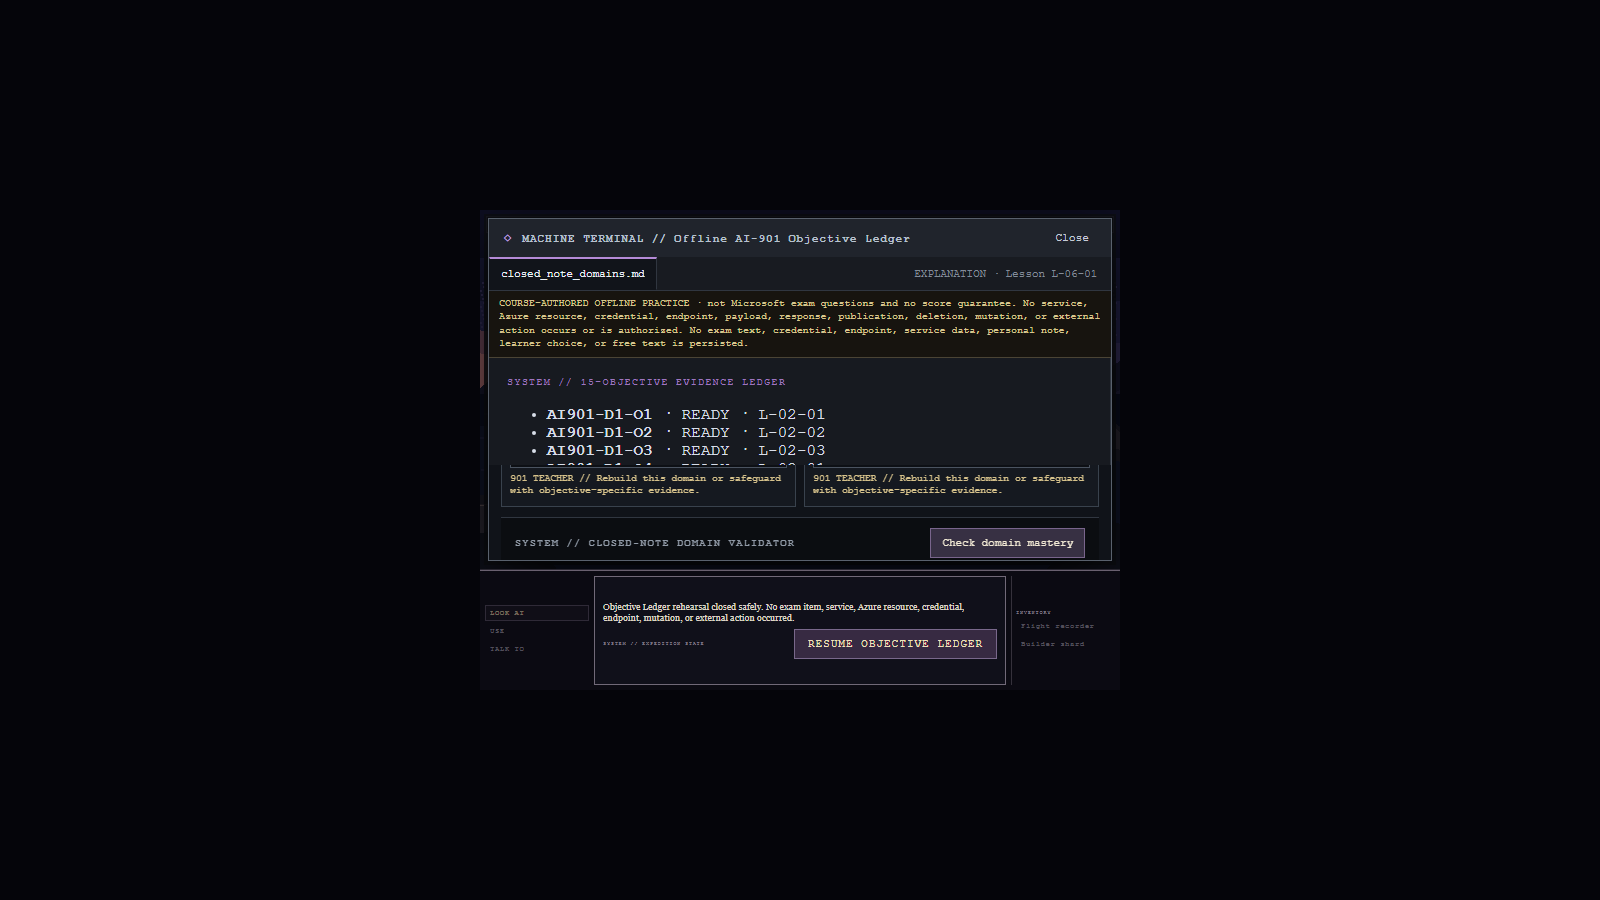
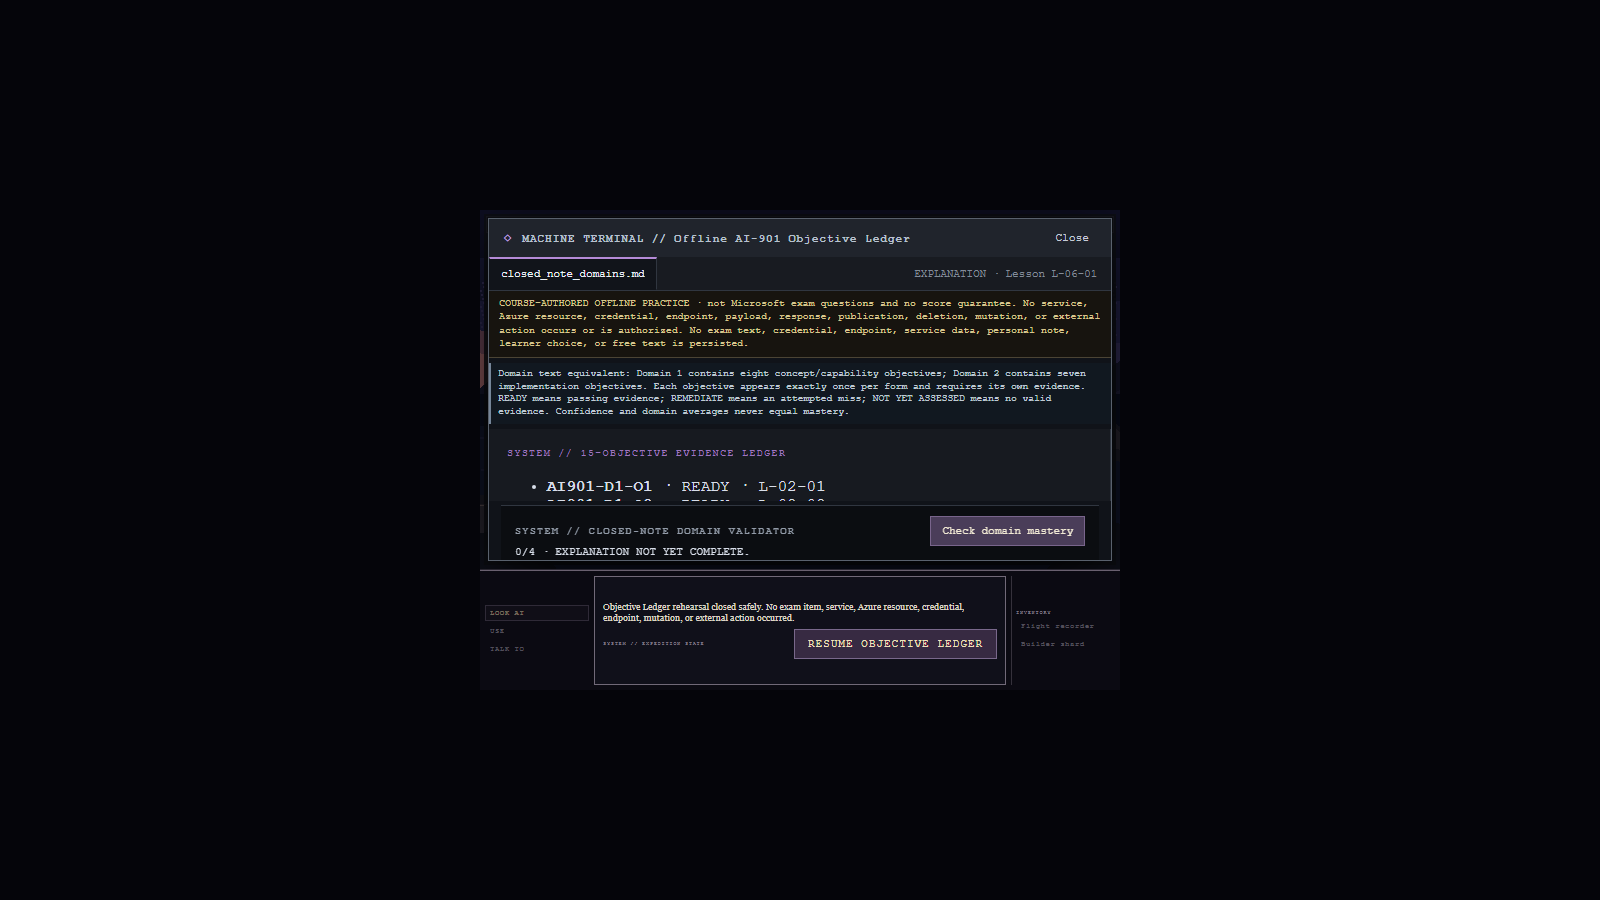
Round 23 step 6 Pixel Patrol Agent checkpoint

Changed region(s): [[0.3125, 0.4044, 0.6875, 0.6222]]

diff --git a/horizon-archive-game/src/styles.css b/horizon-archive-game/src/styles.css
@@ -567,6 +567,10 @@ h1 {
 .visual-pattern-workspace { grid-template-rows: auto auto minmax(0, 1fr); }
 .visual-pattern-explanation { grid-template-columns: repeat(4, minmax(0, 1fr)); }
 .canonical-game-frame[data-canonical-layout="narrow"] .visual-pattern-explanation { grid-template-columns: 1fr; }
+.objective-ledger-workspace { grid-template-rows: auto auto minmax(72px, 0.65fr) minmax(0, 1.35fr); overflow: auto; }
+.objective-ledger-panel { min-height: 0; overflow: auto; }
+.objective-ledger-explanation { grid-template-columns: repeat(4, minmax(0, 1fr)); }
+.canonical-game-frame[data-canonical-layout="narrow"] .objective-ledger-explanation { grid-template-columns: 1fr; }
 .bridge-retrieval { overflow: auto; }
 .bridge-retrieval fieldset { margin: 6px 0; padding: 6px; color: #aeb7c3; border: 1px solid #39424d; font-size: 0.6rem; }
 .bridge-retrieval label { display: block; margin: 4px 0; }

diff --git a/Pixel Patrol/WORK_LOG.md b/Pixel Patrol/WORK_LOG.md
@@ -1,5 +1,13 @@
 # Pixel Patrol Work Log
 
+## 2026-07-12 — Offline Objective Ledger final visual gate
+
+- **Completed:** audited complete Objective Ledger primary, transfer, closed-note, and mastered flow. Corrected one essential layout defect: the four-child ledger workspace inherited a two-row grid and hid the domain equivalent. Added explicit warning/domain/ledger/form rows, contained ledger scrolling, and canonical/narrow explanation columns. The 15-objective status/evidence density, concept-versus-implementation split, objective remediation, confidence-not-mastery, Pilot/System/Teacher ownership, focus, Continue handoff, and square-pixel chrome are now coherent.
+- **Files changed:** `horizon-archive-game/src/styles.css`, `Pixel Patrol/PIXEL_METRICS.md`, `Pixel Patrol/UI_AND_TYPE_SPEC.md`, `Pixel Patrol/QA_CHECKLIST.md`, this log, and regenerated Objective Ledger captures.
+- **Validation:** all 135 unit tests, production build, and full title-to-credits E2E pass with zero runtime errors. Post-fix capture inspection confirms the domain equivalent is visible and ordered at canonical and closed-note presentation; E2E confirms 15 exact objectives, all three statuses, evidence pointers, both 30/30 forms, objective-specific remediation, confidence safeguards, privacy, direct/reload Continue focus, and credits.
+- **Next recommended item:** Location Scout should render fifteen square ledger cells split eight/seven across two labeled banks, with evidence pointers as short routed traces and READY/REMEDIATE/UNASSESSED distinguished by shape and label rather than color alone.
+- **Unresolved risks:** the complete warning dominates the first 320 x 240 viewport by design. Separately, the build remains above the 500 kB advisory threshold; no capture or interaction defect was observed.
+
 ## 2026-07-12 — Offline Visual Patterns final visual gate
 
 - **Completed:** audited complete Visual Patterns primary, transfer, closed-note, and mastered flow. Persistent offline/no-action warning and six-boundary visual equivalent already occupy correct fixed rows above one contained form. Analysis/multimodal/generation/request/result/provenance/publication-deletion hierarchy, honest operation status, Pilot/System/Teacher ownership, scrolling, focus, Continue handoff, and square-pixel chrome are coherent at canonical and narrow sizes. No CSS correction was warranted.

diff --git a/Pixel Patrol/QA_CHECKLIST.md b/Pixel Patrol/QA_CHECKLIST.md
@@ -152,6 +152,12 @@ Run at native 640 x 480, 2x 1280 x 960, the 320 x 240 alternate layout, and a no
 - [ ] Client flow reads agent identifier -> submit input -> real result or honest error.
 - [ ] Single-Agent captures remain byte-distinct across canonical, narrow, and host context; one traversal preserves narrow content.
 - [ ] Direct/restored mastery moves focus to Continue with Pilot/System/Teacher separation and square-pixel chrome unchanged.
+- [ ] Objective Ledger warning, domain equivalent, 15-row ledger, and form occupy four explicit ordered rows without overlap.
+- [ ] Exactly 15 objective rows expose READY, REMEDIATE, or NOT YET ASSESSED and an evidence pointer or explicit absence.
+- [ ] Eight concept/capability objectives remain distinct from seven implementation objectives.
+- [ ] Confidence and domain averages never render as mastery; Teacher remediation names the current objective.
+- [ ] Objective Ledger captures remain byte-distinct across canonical, narrow, and host context; ledger and form remain traversable.
+- [ ] Direct/restored strict mastery moves focus to Continue with Pilot/System/Teacher separation intact.
 - [ ] Visual Pattern offline/no-action warning and six-boundary equivalent remain persistent, ordered, and non-overlapping.
 - [ ] Analysis, multimodal prompting, generation, request validation, result/provenance, and authority boundaries remain distinct.
 - [ ] Operation status/result shapes remain honest; fabricated success or media receives Teacher remediation separate from System score.

diff --git a/Pixel Patrol/UI_AND_TYPE_SPEC.md b/Pixel Patrol/UI_AND_TYPE_SPEC.md
@@ -216,3 +216,9 @@ Every failure response contains: what the Machine observed, one bounded cue, and
 - Existing pixels map to analysis, image plus question to multimodal response, and written brief to newly generated labeled media. Validate bytes, type, request, and deployed capability before processing.
 - Inspect honest operation status and operation-specific result shape without fabricated success/media. Preserve source/model/prompt/time and generated-content provenance. Publication and deletion require separate explicit authority.
 - Keep persistent rows outside one form traversal. Retain square seams, two-pixel focus/ownership rails, native controls, and Continue focus after direct or restored mastery.
+
+## Offline Objective Ledger hierarchy
+
+- Preserve reading order: Machine/file/status -> course-authored/not-exam/no-guarantee warning -> Domain 1 concept/capability versus Domain 2 implementation equivalent -> System 15-objective ledger -> Pilot evidence choice/prose -> neutral System validator -> objective-specific Teacher remediation.
+- Each objective displays READY, REMEDIATE, or NOT YET ASSESSED plus its own lesson evidence pointer or explicit absence. Domain averages and confidence never equal objective readiness or mastery.
+- The ledger is a contained scroller above the contained form; neither may cover the warning or domain equivalent. Continue receives focus after direct or restored strict mastery.

diff --git a/Pixel Patrol/PIXEL_METRICS.md b/Pixel Patrol/PIXEL_METRICS.md
@@ -142,3 +142,9 @@ At 1x capture:
 - Visual Patterns uses three fixed rows: persistent offline/no-action warning, six-boundary visual text equivalent, then one contained form. Dense text wraps inside its row without collision or reordering.
 - Canonical order is analysis/multimodal/generation -> request validation -> honest operation/result -> provenance -> simulation limits -> separate publication/deletion authority. Narrow preserves all boundaries by vertical traversal.
 - Primary/transfer retain decision then reason. Closed note uses four grouped explanation fields in one canonical row and one narrow column; outer Machine/file/status chrome stays fixed.
+
+## Offline Objective Ledger viewport contract
+
+- Objective Ledger uses four explicit rows: course-authored/not-exam/no-guarantee warning, domain/status equivalent, contained 15-objective ledger, then contained scenario or closed-note form. All four remain ordered and independently traversable.
+- At 640 x 480 the domain equivalent and at least one ledger row remain visible with the validator region. At 320 x 240 the complete warning leads; domain, ledger, and form remain reachable by vertical traversal.
+- Closed note uses four domain/safeguard fields in one canonical row and one narrow column. Outer Machine/file/status chrome remains fixed.
